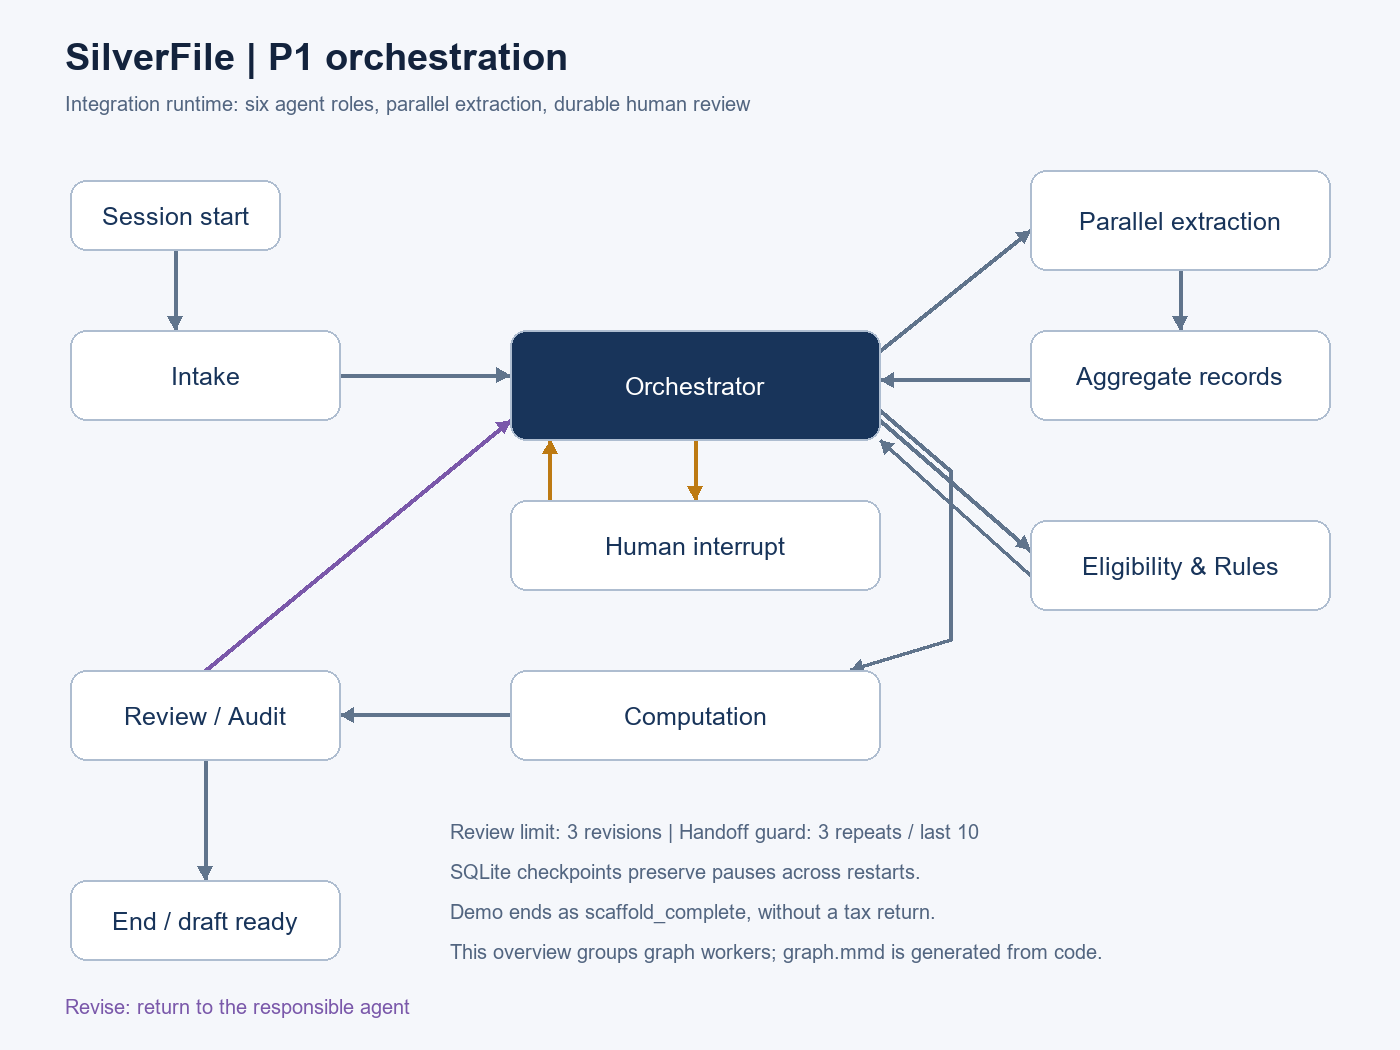
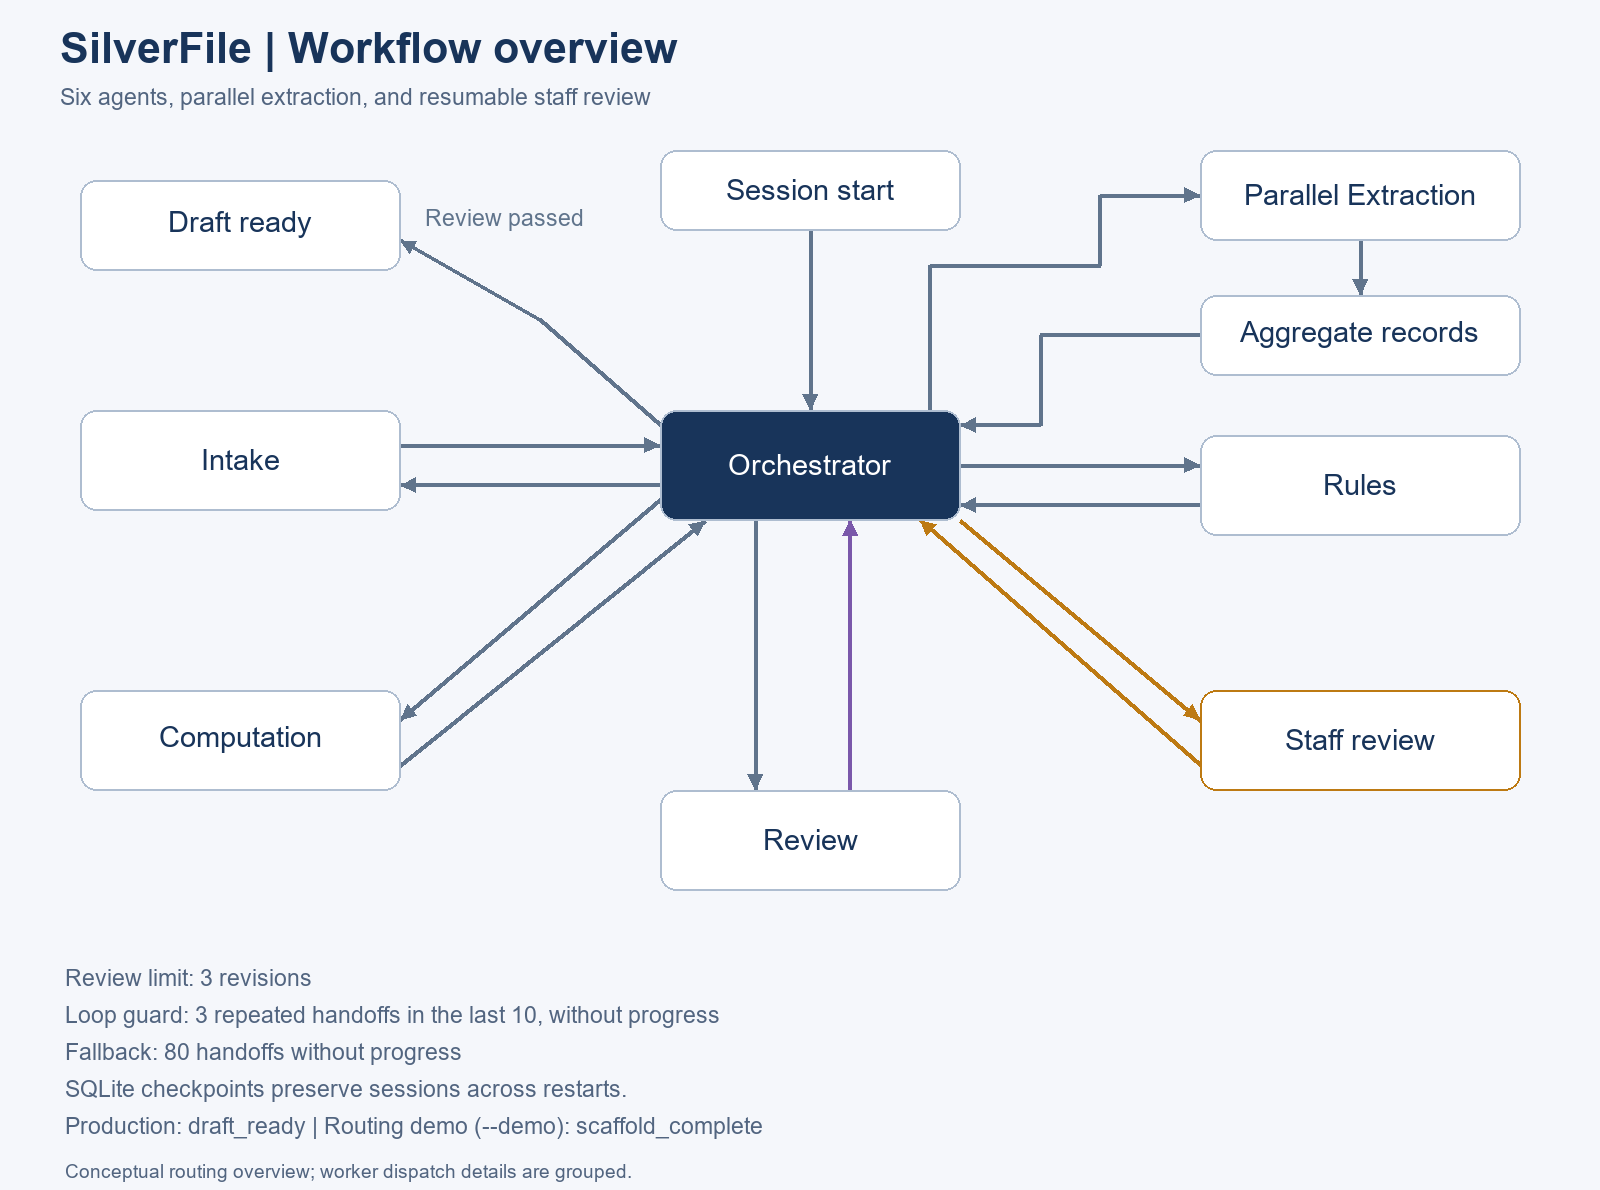
Correct workflow overview routing and guard labels

diff --git a/scripts/render_workflow_diagram.py b/scripts/render_workflow_diagram.py
@@ -1,0 +1,65 @@
+"""Render the conceptual workflow overview; run from any directory (requires Pillow)."""
+from pathlib import Path
+import math
+from PIL import Image, ImageDraw, ImageFont
+
+ROOT = Path(__file__).resolve().parents[1]
+BG, INK, EDGE, PURPLE, GOLD = "#f5f7fb", "#18345a", "#60748c", "#7a58aa", "#bd7a13"
+img = Image.new("RGB", (1600, 1190), BG)
+d = ImageDraw.Draw(img)
+def font(size, bold=False):
+    candidates = [Path("C:/Windows/Fonts") / ("arialbd.ttf" if bold else "arial.ttf"),
+                  Path("/usr/share/fonts/truetype/dejavu") / ("DejaVuSans-Bold.ttf" if bold else "DejaVuSans.ttf")]
+    for path in candidates:
+        if path.exists(): return ImageFont.truetype(str(path), size)
+    return ImageFont.load_default(size=size)
+LABEL, SMALL, TITLE = font(29), font(23), font(43, True)
+d.text((60, 24), "SilverFile | Workflow overview", fill=INK, font=TITLE)
+d.text((60, 84), "Six agents, parallel extraction, and resumable staff review", fill="#526580", font=SMALL)
+nodes = {
+    "start": (660,150,960,230,"Session start"),
+    "intake": (80,410,400,510,"Intake"),
+    "orch": (660,410,960,520,"Orchestrator"),
+    "extract": (1200,150,1520,240,"Parallel Extraction"),
+    "aggregate": (1200,295,1520,375,"Aggregate records"),
+    "rules": (1200,435,1520,535,"Rules"),
+    "compute": (80,690,400,790,"Computation"),
+    "review": (660,790,960,890,"Review"),
+    "staff": (1200,690,1520,790,"Staff review"),
+    "draft": (80,180,400,270,"Draft ready"),
+}
+def arrow(points, color=EDGE):
+    d.line(points, fill=color, width=4, joint="curve")
+    a,b=points[-2:]; angle=math.atan2(b[1]-a[1],b[0]-a[0])
+    d.polygon([b,(b[0]-17*math.cos(angle-.43),b[1]-17*math.sin(angle-.43)),
+                (b[0]-17*math.cos(angle+.43),b[1]-17*math.sin(angle+.43))],fill=color)
+arrow([(810,230),(810,410)])
+arrow([(400,445),(660,445)])
+arrow([(660,485),(400,485)])
+arrow([(930,410),(930,265),(1100,265),(1100,195),(1200,195)])
+arrow([(1360,240),(1360,295)])
+arrow([(1200,335),(1040,335),(1040,425),(960,425)])
+arrow([(960,465),(1200,465)])
+arrow([(1200,505),(960,505)])
+arrow([(660,500),(400,720)])
+arrow([(400,765),(705,520)])
+arrow([(755,520),(755,790)])
+arrow([(850,790),(850,520)], PURPLE)
+arrow([(960,520),(1200,720)], GOLD)
+arrow([(1200,765),(920,520)], GOLD)
+arrow([(660,425),(540,320),(400,240)])
+d.text((425,205),"Review passed",fill=EDGE,font=SMALL)
+for key,(x1,y1,x2,y2,label) in nodes.items():
+    fill=INK if key=="orch" else "#ffffff"
+    d.rounded_rectangle((x1,y1,x2,y2),radius=16,fill=fill,outline=GOLD if key=="staff" else "#aebdd0",width=2)
+    box=d.textbbox((0,0),label,font=LABEL)
+    d.text(((x1+x2-(box[2]-box[0]))/2,(y1+y2-(box[3]-box[1]))/2-box[1]),label,
+           fill="white" if key=="orch" else INK,font=LABEL)
+notes=["Review limit: 3 revisions",
+       "Loop guard: 3 repeated handoffs in the last 10, without progress",
+       "Fallback: 80 handoffs without progress",
+       "SQLite checkpoints preserve sessions across restarts.",
+       "Production: draft_ready | Routing demo (--demo): scaffold_complete"]
+for i,text in enumerate(notes): d.text((65,965+i*37),text,fill="#526580",font=SMALL)
+d.text((65,1160),"Conceptual routing overview; worker dispatch details are grouped.",fill="#526580",font=font(19))
+img.save(ROOT/"docs/graph.png")

diff --git a/docs/WORKFLOW_DIAGRAM.md b/docs/WORKFLOW_DIAGRAM.md
@@ -1,0 +1,20 @@
+# Workflow diagram
+
+Rebuild with `python scripts/render_workflow_diagram.py` (Pillow required).
+
+`graph.png` is a conceptual view of the production workflow. The README also contains
+a Mermaid version. The executable topology is in `src/graph.py`; routing decisions are
+in `src/orchestration.py`.
+
+- A session starts at the Orchestrator, which initially selects Intake.
+- Intake, Rules, Computation and Review return their results to the Orchestrator.
+- The Orchestrator can return to Intake for another question or missing information.
+- Document workers run in parallel and their outputs aggregate before control returns.
+- Staff resolution pauses and resumes the same checkpointed session, then routing continues.
+- The Orchestrator marks a return draft-ready after Review passes. The routing scaffold
+  (`--demo`) instead ends as `scaffold_complete` without calculating a return.
+- Review allows three revisions. The stalled-handoff guard checks three repeats of a
+  directed pair within ten stalled handoffs, with an 80-handoff no-progress fallback.
+
+The overview groups worker/dispatch details for readability; it is not a generated
+state-machine trace. Image editing assistance is recorded in `docs/ai_log/kaiwen.md`.

diff --git a/docs/ai_log/kaiwen.md b/docs/ai_log/kaiwen.md
@@ -64,3 +64,12 @@ Google Doc titled Report SilverFile v2 on October 30. README now links both that
 report and the committed PDF. TASKS identifies specific stale report paragraphs without
 claiming the report or code was modified to remove the underlying technical limitations.
 The Google Doc itself was not edited.
+
+## October 31, 2026 — workflow diagram revision
+
+Codex tried the image-generation tool, rejected its inaccurate routing draft, then
+rendered the final diagram from an editable Pillow source. Labels and arrows were
+checked against graph.py and orchestration.py. README's Mermaid source was
+aligned with central routing and the revised PNG linked for readers. The overview
+is conceptual, not an automatically generated execution trace. Validation covers
+visual inspection, local links and diff whitespace; no application behavior changed.

diff --git a/README.md b/README.md
@@ -20,6 +20,8 @@ measurements, AI-use records and technical limitations are linked below.
 
 ## System overview
 
+![SilverFile workflow overview](docs/graph.png)
+
 Six agents share validated state in a LangGraph workflow:
 
 | Agent | Responsibility |
@@ -40,7 +42,9 @@ question, allowing the corresponding staff escalation.
 
 ```mermaid
 flowchart TD
-  I[Intake] --> O[Orchestrator]
+  S[Session start] --> O[Orchestrator]
+  O --> I[Intake]
+  I --> O
   O -->|Documents ready| X[Parallel Extraction]
   X --> A[Aggregate records]
   A --> O
@@ -49,8 +53,8 @@ flowchart TD
   O --> C[Computation via MCP tools]
   C --> O
   O --> V[Review]
-  V -->|Corrections| O
-  V -->|Pass| D[Draft ready]
+  V -->|Pass or correction findings| O
+  O -->|Review passed| D[Draft ready]
   O -->|Escalation| H[Staff interrupt]
   H -->|Validated resolution| O
 ```
